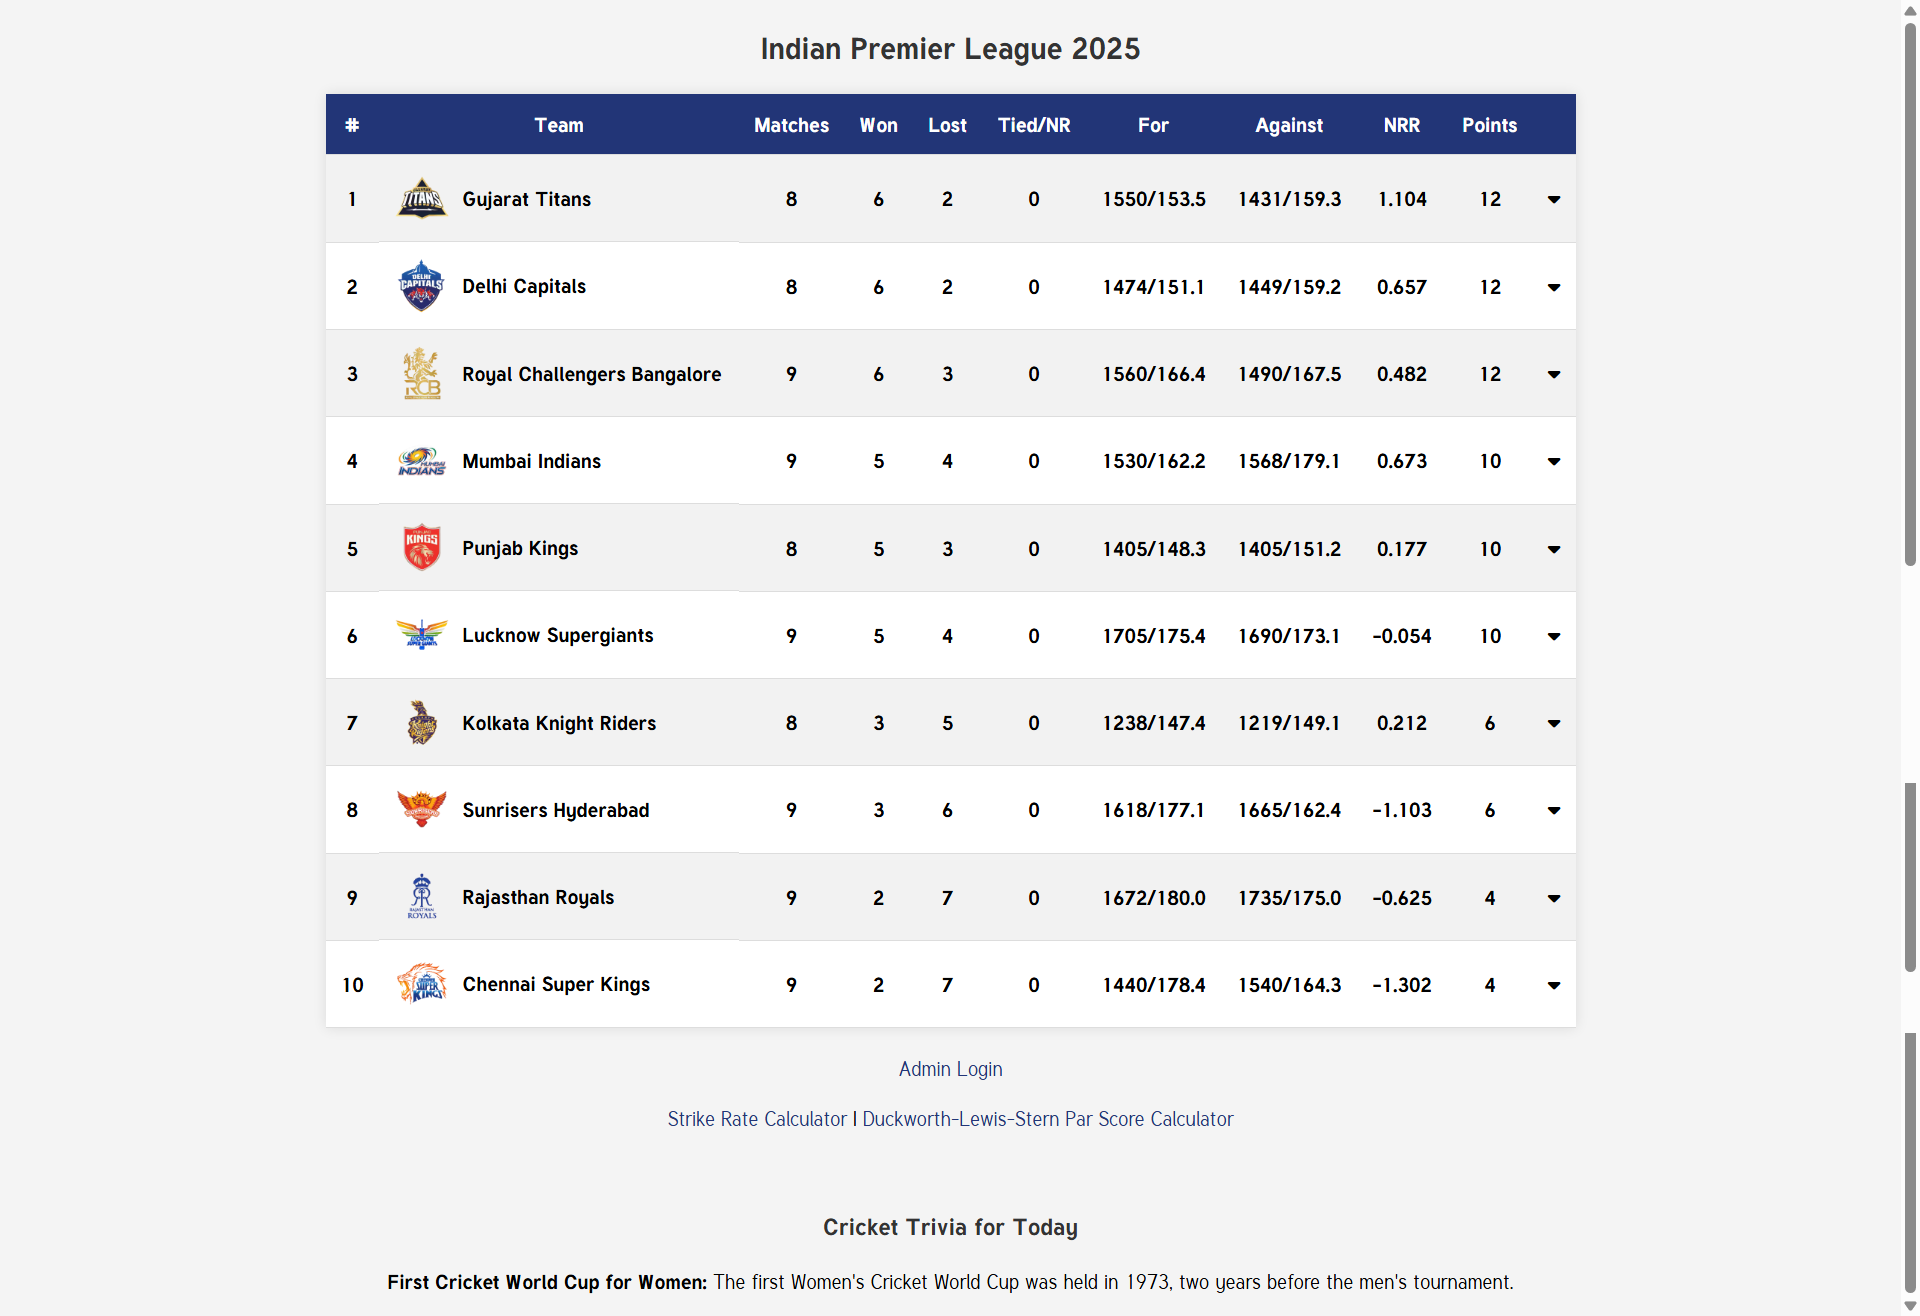
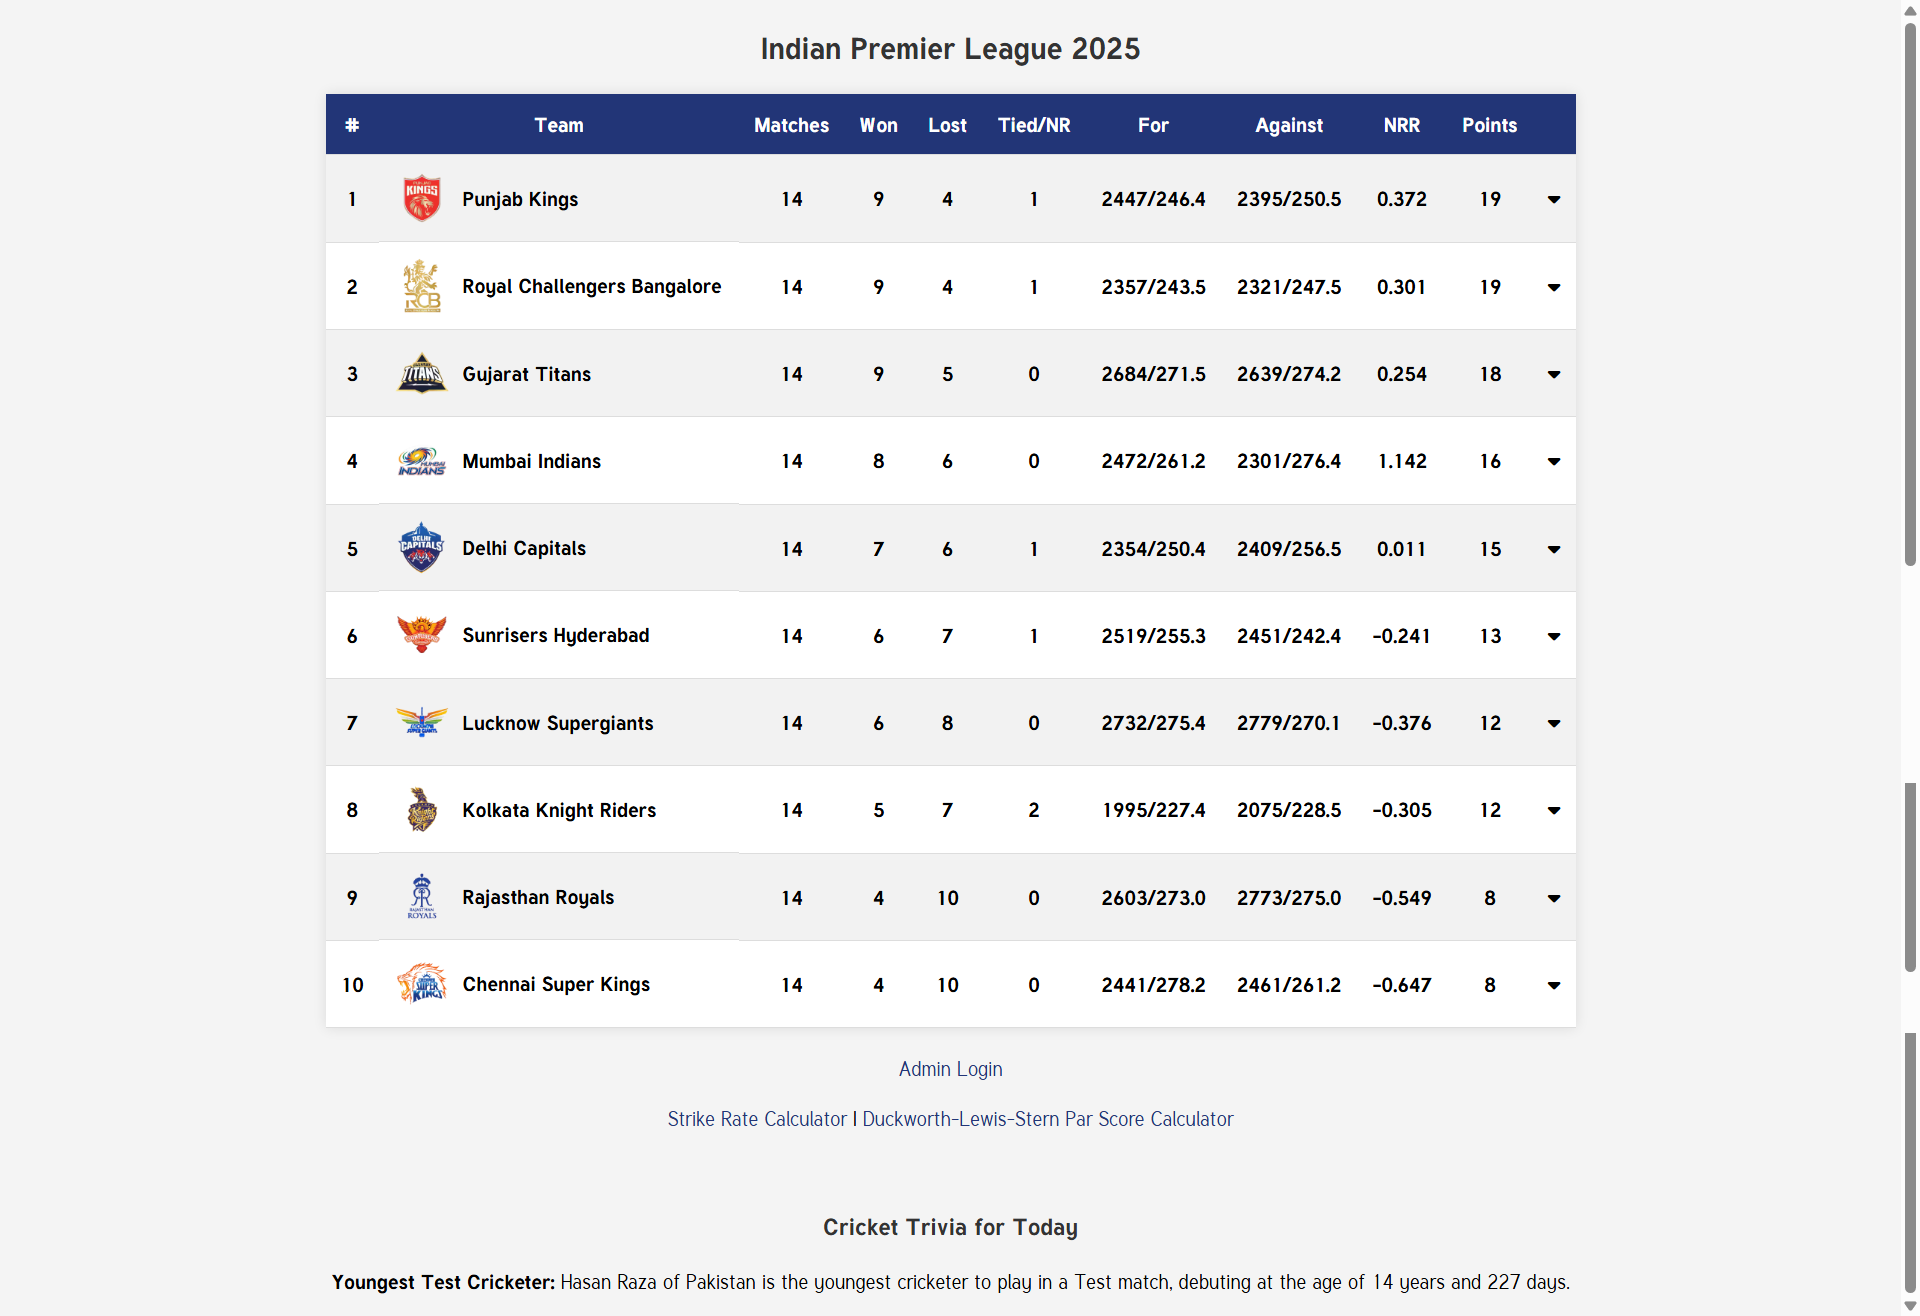
updated README.md with appropriate screenshots

diff --git a/README.md b/README.md
@@ -46,27 +46,38 @@ Additionally, the system maintains match histories for each team, offering compr
 
 #### Scorecard Calculations
 
-a) Ranks teams primarily based on **Points**, and secondarily based on **Net Run Rate (NRR)**.  
-b) Calculates NRR based on: overs and balls played, wickets lost, runs scored and conceded, with special handling for teams that are all out or affected by reduced overs.  
-c) Updates scorecard including **matches played, toss and decisions, venues, wins, losses, tied matches, points, and NRR**.
+a) Ranks teams primarily based on **Points**, the by **Number of Wins** and finally by **Net Run Rate (NRR)**.
+b) Further tie-breakers like **Head-to-Head** results are not currently implemented.
+c) Calculates NRR based on: overs and balls played, wickets lost, runs scored and conceded, with special handling for teams that are all out or affected by reduced overs.  
+d) Updates scorecard including **matches played, toss and decisions, venues, wins, losses, tied matches, points, and NRR**.
 
 #### Match Handling Scenarios
 
 - **Abandoned Matches**
 
   - If a match is abandoned (e.g., due to rain), both teams are awarded 1 point each, ensuring the match is treated as "No Result."
+  - Two sub-scenarios are handled:
+    - **Abandoned Before Toss**: Match abandoned without a toss.
+      Example: **Match 58 (RCB vs KKR)**
+    - **Abandoned After Toss**: Toss has occurred, but no play was possible.  
+      Examples: **Match 44 (KKR vs PBKS), Match 55 (SRH vs DC)**
   - **Validation**:  
+    ➔ Toss-related fields (i.e., Toss Won By and Decision) are disabled when Toss Status is set to "Match Abandoned Without Toss", ensuring the UI aligns with real-world logic and avoids unnecessary or misleading inputs.
     ➔ All score input fields are disabled when a match is marked as abandoned, preventing accidental data entry.
 
 - **Tied Matches**
 
   - When both teams have equal scores at the end of their innings, a Super Over is triggered to determine the winner.
+  - Example:  
+    ➔ **Match No. 32 (DC vs RR)** followed this scenario and was resolved via Super Over.
   - **Validation**:  
     ➔ When scores are tied, an additional hidden field (Super Over Winner selection) becomes visible and **must** be selected before submission.
 
-- **Reduced Overs**
+- **Reduced Overs For Both Teams**
 
-  - Matches affected by weather or other interruptions are recorded with a reduced number of overs and recalculated accordingly.
+  - Matches affected by weather or other interruptions are recorded with a reduced number of overs for both teams and recalculated accordingly.
+  - Example:  
+    ➔ **Match No. 34 (RCB vs PBKS)** was played under reduced overs conditions for both teams.
   - **Validation**:  
     ➔ Users are allowed to enter overs between **5 and 19** only.  
     ➔ Values below 5 or above 19 overs are **not permitted**, as per ICC standards that a minimum of a 5-overs match must be completed by both teams to get a valid result.
@@ -75,12 +86,12 @@ c) Updates scorecard including **matches played, toss and decisions, venues, win
 
   - In some weather-affected matches, only the second innings is shortened. The DLS (Duckworth-Lewis-Stern) method is applied to set a revised target.
   - The team batting second must chase this revised target within the reduced overs.
+    - Example:
+      ➔ In **Match 56 (MI vs GT)**, only the second innings was reduced, and the DLS method was used for par score calculation.
   - **Validation**:
-    ➔ User must enter the revised overs and revised target when this condition is selected.
+    ➔ The user must enter the revised overs and revised target when this condition is selected.
     ➔ Input fields for revised values are enabled only in this scenario.
     ➔ If scores are tied at the revised target, the Super Over option must still be selected.
-
----
 
 #### The Net Run Rate (NRR) calculation
 
@@ -97,7 +108,7 @@ a) **Zero Runs**: If a team scores 0 runs, overs are set to the reduced total ov
 b) **All Wickets Lost**: If all 10 wickets fall, overs are set to the reduced total overs (or 20 overs) and balls to 0.  
 c) **Inning 1 Specific**: If the first batting team doesn’t complete the reduced overs (or 20 overs) and doesn’t lose all wickets, overs are set to the reduced total overs (or 20 overs) and balls to 0.  
 d) **Inning 2 Specific (Lost Without All Out)**: If the second batting team scores fewer than the first team without losing all wickets, overs are set to the reduced total overs (or 20 overs) and balls to 0.  
-e) **Inning 2 Specific (Won Without Facing Legal Delivery)**: If the second team wins without facing a legal delivery, overs are set to 0 and balls to 1 (to prevent division by zero error).  
+e) **Inning 2 Specific (Won Without Facing Legal Delivery)**: If the second team wins without facing a legal delivery (e.g., due to extras like wides or no-balls), overs are considered 0 and balls as 1 to avoid a _division by zero error_. This rare edge case is especially critical if it occurs in the very first match of the tournament, where no previous data exists to compute average NRR.
 f) **General Case**: All other scenarios use the actual overs and balls faced/bowled, based on either the full or reduced overs, to calculate NRR.
 
 ---
@@ -112,11 +123,34 @@ f) **General Case**: All other scenarios use the actual overs and balls faced/bo
 
 This project simulates the IPL 2025 season using real match data, with predefined teams, venues, and a schedule.
 
-As of now, 42 out of 70 matches have been entered. New match data is added daily as matches conclude.
+All 70 group stage matches have now been completed and recorded in the system.
 
 Live updates are reflected on the deployed project [here](https://scorecard.siddheshmestri.online), with match data and points table updated in real-time.
 
-The README.md will be updated once the full season concludes, including a final screenshot of the complete points table and match data.
+The README is now updated with a final screenshot of the complete points table and summary of key statistics from the season.
+
+---
+
+### System Accuracy
+
+All calculations, including team rankings, Net Run Rate (NRR) up to 3 decimal places, and tie-breaking logic (based on points, wins, and NRR), have been thoroughly implemented and validated.
+
+The points table generated by this system matches the official IPL 2025 standings exactly, ensuring complete accuracy and consistency.
+
+All CRUD operations and match updates are functioning seamlessly, with real-time reflections on the live deployment.
+
+---
+
+### Future Enhancements
+
+- **Qualification Predictor (Q)**: Automatically mark teams as qualified based on current points, remaining matches, and whether other teams can mathematically catch up. This feature would simulate all remaining scenarios to confirm top-four teams.
+- **Improved DLS Calculator**: Enhance the Duckworth-Lewis-Stern (DLS) calculator by incorporating official tables and historical match data to offer more accurate par scores.
+- **Mobile Responsiveness & UI Polish**: Refine front-end experience, particularly for smaller devices.
+- **Post-League Phase Extension**: Extend the system beyond league-stage matches to include **Qualifier 1**, **Eliminator**, **Qualifier 2**, and the **Final**, capturing the full tournament journey.
+- **Recent Match Form Indicator**: Display each team’s last five match results (e.g., W, L, NR) in the points table to reflect recent form and momentum.
+- **Match Score Summary in Points Table**: Show concise match summaries (e.g., "==KKR 131/10 vs RCB 49/10==") alongside existing toss and venue details in the points table for better context.
+
+---
 
 #### Please Note
 
